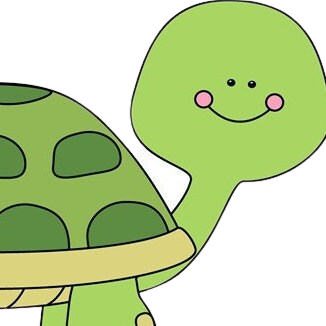
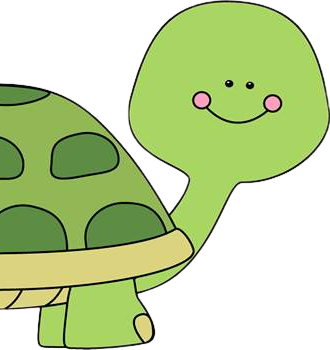
fixturtle image hpover

Changed region(s): [[0.0, 0.0, 1.0, 1.0], [0.5828, 0.2147, 0.8896, 0.3988], [0.0, 0.3681, 0.092, 0.5521]]

diff --git a/styles/styles.css b/styles/styles.css
@@ -47,10 +47,6 @@ a img {
 	transition: transform 0.2s, -webkit-transform 0.2s;
 }
 
-a:hover img {
-    transform: scale(1.3);
-}
-
 .paragraph-1 {
     float: left;
     color: var(--text-color);
@@ -121,9 +117,12 @@ a:hover img {
 }
 
 #cartoon-turtle {
-    width: 10%;
-    height: 10%;
+    height: 200px;
     margin-right: 95%;
+}
+
+#cartoon-turtle:hover {
+    content: url("../assets/turtle-speech.svg");
 }
 
 #footer-text {
@@ -140,4 +139,8 @@ a:hover img {
 
 #footer-image {
     height: 50px;
+}
+
+#footer-image:hover {
+    transform: scale(1.3);
 }
